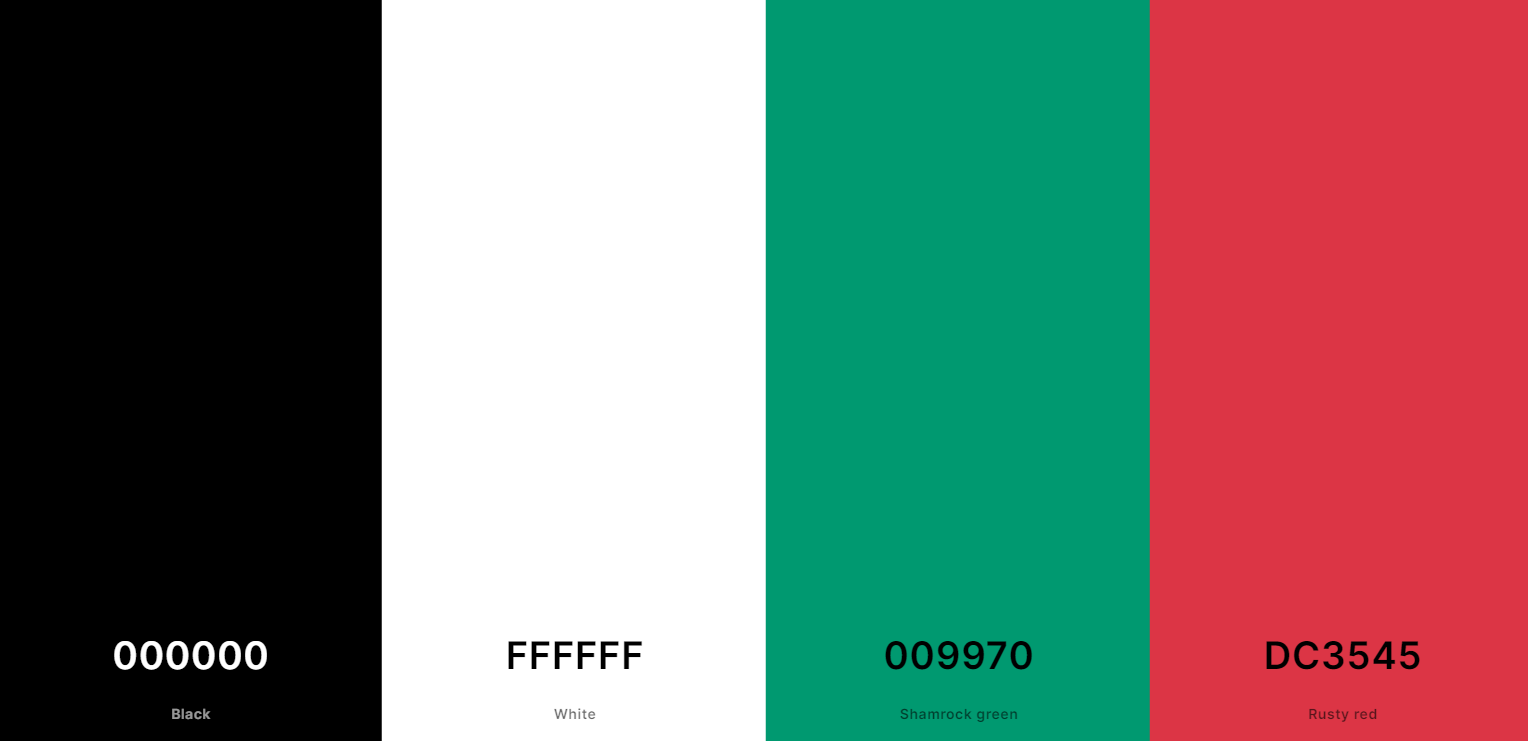
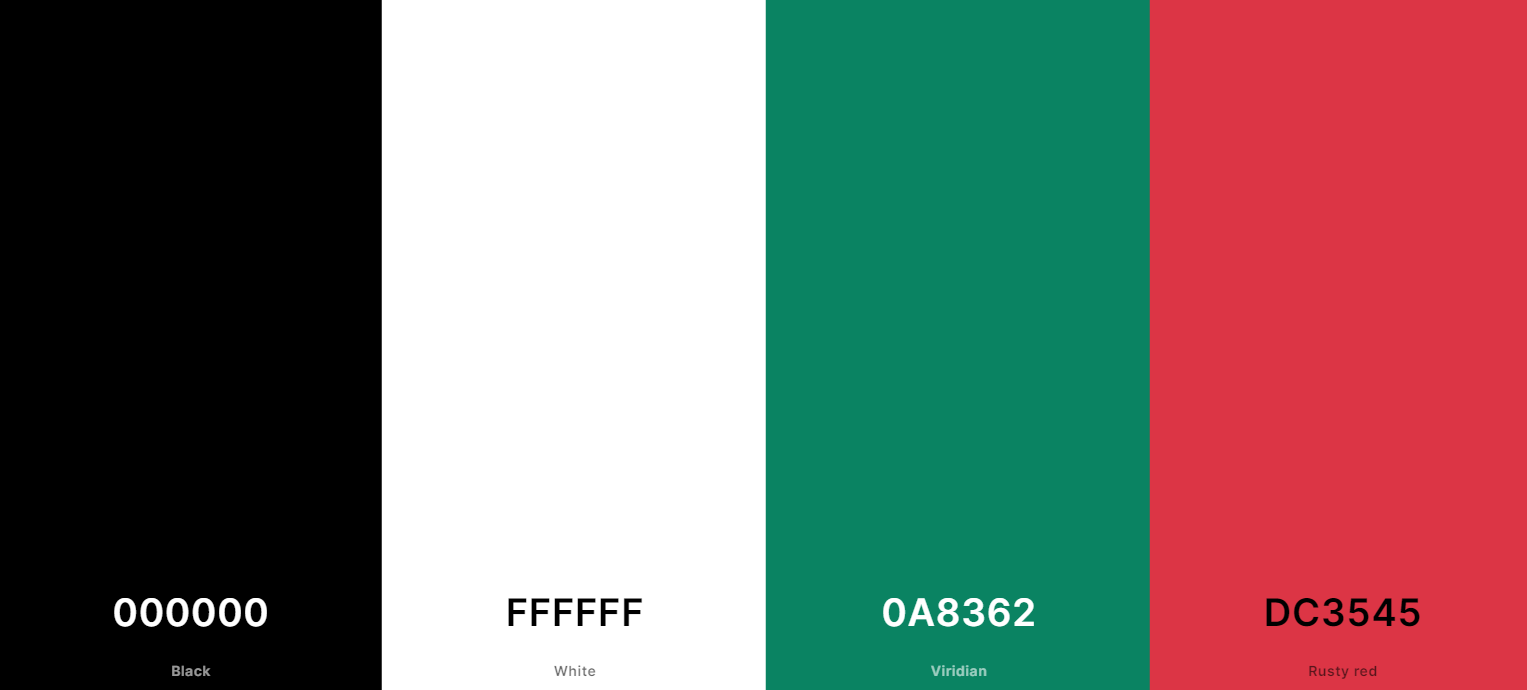
Fix pallette readme+other lighthouse

diff --git a/static/css/base.css b/static/css/base.css
@@ -88,7 +88,7 @@ body {
 
 .btn-black,
 .primaryAction {
-    background: #009970;
+    background: #0a8362;
     color: white;
 }
 
@@ -184,7 +184,7 @@ a.category-badge>span.badge:hover {
 }
 
 .message-container .del-bg {
-    background-color: #009970;
+    background-color: #0a8362;
     color: #fff;
 }
 
@@ -194,7 +194,7 @@ a.category-badge>span.badge:hover {
 
 .toast-capper {
     height: 2px;
-    background-color: #009970;
+    background-color: #0a8362;
 }
 
 /* from CSS-tricks.com: https://css-tricks.com/snippets/css/css-triangle/ */
@@ -219,7 +219,7 @@ a.category-badge>span.badge:hover {
 }
 
 .arrow-success {
-    border-bottom-color: #009970 !important;
+    border-bottom-color: #0a8362 !important;
 }
 
 .arrow-danger {
@@ -231,7 +231,7 @@ a.category-badge>span.badge:hover {
 }
 
 .arrow-info {
-    border-bottom-color: #009970 !important;
+    border-bottom-color: #0a8362 !important;
 }
 
 .arrow-light {
@@ -260,7 +260,7 @@ a.category-badge>span.badge:hover {
 }
 
 .bag-color {
-    color: #009970;
+    color: #0a8362;
 }
 
 .product-img {
@@ -280,12 +280,7 @@ a.category-badge>span.badge:hover {
 }
 
 .text-info {
-    color: #009970 !important;
-}
-
-.small a,
-small {
-    color: #009970 !important;
+    color: #0a8362 !important;
 }
 
 /* Allauth form formatting */
@@ -331,7 +326,7 @@ small {
 }
 
 .allauth-form-inner-content a {
-    color: #009970;
+    color: #0a8362;
     /* text-info */
 }
 
@@ -444,17 +439,17 @@ small {
 }
 
 .card-header .btn-link:hover {
-    color: #009970;
+    color: #0a8362;
     text-decoration: none;
 }
 
 .accordion .card-body {
-    background-color: #009970;
+    background-color: #0a8362;
     color: #fff;
 }
 
 footer h5 {
-    color: #009970;
+    color: #0a8362;
 }
 
 .footer-contact {
@@ -465,11 +460,11 @@ footer h5 {
 }
 
 .footer-contact:hover {
-    color: #009970;
+    color: #0a8362;
 }
 
 .footer-contact svg {
-    color: #009970;
+    color: #0a8362;
 }
 
 .footer-contact a {
@@ -477,7 +472,7 @@ footer h5 {
 }
 
 .footer-contact a:hover {
-    color: #009970;
+    color: #0a8362;
 }
 
 /* -------------------------------- Media Queries */
@@ -511,7 +506,7 @@ footer h5 {
         transform: translateX(-50%);
         width: 0;
         height: 2px;
-        background-color: #009970;
+        background-color: #0a8362;
         visibility: hidden;
         transition: 0.3s ease-in-out;
     }
@@ -556,7 +551,7 @@ footer h5 {
     }
 
     svg.bi.bi-list:hover {
-        color: #009970;
+        color: #0a8362;
     }
 
     #delivery-banner h4 {

diff --git a/home/templates/home/index.html b/home/templates/home/index.html
@@ -19,10 +19,11 @@
                 Discover Tail-Wagging Treasures!
             </h1>
             <div class="my-5">
-                <h4>
-                    <a href="{% url 'products' %}" class="shop-now-button btn btn-lg rounded-0 text-uppercase py-3">Shop
+                <h2>
+                    <a href="{% url 'products' %}"
+                        class="shop-now-button btn h4 btn-lg rounded-0 text-uppercase py-3">Shop
                         Now</a>
-                </h4>
+                </h2>
             </div>
         </div>
     </div>
@@ -30,7 +31,7 @@
 {% endblock %}
 {% block featured_products %}
 <div class="container-fluid mt-5 text-dark px-5">
-    <h2 class="font-weight-bold text-center">Featured Products</h2>
+    <h3 class="font-weight-bold h2 text-center">Featured Products</h3>
     <hr>
     <div class="row">
         {% for product in featured_products %}
@@ -102,7 +103,7 @@
 
 {% block newsletter %}
 <div class="col-8 container-fluid d-flex flex-column align-items-center mt-5 pt-5 shadow">
-    <h2 class="font-weight-bold text-center">Stay in the loop with all things doggie-delightful!</h2>
+    <h3 class="font-weight-bold h2 text-center">Stay in the loop with all things doggie-delightful!</h3>
     <hr>
     <p class="text-center mx-4">Sign up for our newsletter today and unleash a world of tail-wagging fun and
         tasty treats for your furry friend.</p>
@@ -116,7 +117,7 @@
 
 {% block blogs %}
 <div class="container-fluid mt-5 text-dark px-5">
-    <h2 class="font-weight-bold text-center">Featured Blogs</h2>
+    <h3 class="font-weight-bold h2 text-center">Featured Blogs</h3>
     <hr>
     <div class="row">
         {% for post in top_liked_posts %}

diff --git a/templates/base.html b/templates/base.html
@@ -64,7 +64,8 @@
                         <input class="form-control border border-black rounded-0" type="text" name="q"
                             placeholder="Search our prooducts">
                         <div class="input-group-append">
-                            <button class="form-control btn btn-black border border-black rounded-0" type="submit">
+                            <button aria-label="Search" class="form-control btn btn-black border border-black rounded-0"
+                                type="submit">
                                 <span class="icon">
                                     <svg xmlns="http://www.w3.org/2000/svg" width="32" height="32" fill="currentColor"
                                         class="bi bi-search-heart" viewBox="0 0 16 16">
@@ -88,7 +89,8 @@
                             <div class="text-center">
                                 <!--If profile image exists, display it-->
                                 {% if profile_image %}
-                                <img src="{{ profile_image }}" alt="My Account" class="rounded-circle profile_img_base">
+                                <img src="{{ profile_image }}" alt="Profile Image"
+                                    class="rounded-circle profile_img_base">
                                 <!--Otherwise display default image-->
                                 {% else %}
                                 <img src="{% get_media_prefix %}default-images/default_profile.webp" alt="My Account"

diff --git a/profiles/static/profiles/css/profile.css b/profiles/static/profiles/css/profile.css
@@ -57,5 +57,5 @@
 
 .text-link:hover {
     text-decoration: none;
-    color: #009970;
+    color: #0a8362;
 }

diff --git a/README.md b/README.md
@@ -157,7 +157,7 @@ In crafting the color palette for this project, I aimed to strike a perfect bala
     
 - **White (#FFFFFF) for the Background**: White serves as the canvas upon which all other colors and content come to life. Its clean and neutral nature creates a sense of spaciousness and cleanliness, enhancing readability and user experience. A white background exudes simplicity and elegance, perfectly complementing various design styles.
     
-- **Teal/Green (#009970) for Buttons, Links, Headers, and Icons**: Teal or green tones, such as #009970, inject vibrancy and energy into our project. This color choice for buttons, links, and headers adds visual interest and directs users' attention to key elements. Moreover, it's associated with growth, harmony, and freshness, resonating positively with our audience and conveying a welcoming vibe.
+- **Dark Green (#0a8362) for Buttons, Links, Headers, and Icons**: #0a8362 is a darker shade of teal-green. It carries a rich and deep tone that exudes sophistication and depth. This color combines the vibrancy of green with the calming qualities of teal, resulting in a hue that is both bold and grounded.
     
 - **Red (#DC3545) for Errors and Delete Buttons**: Red, particularly #DC3545, serves as a signal for alerts, warnings, or errors. Its darker hue maintains visibility while conveying a sense of urgency or caution. By using this color for error messages and delete buttons, we ensure that users take notice and proceed with care when necessary.
     
